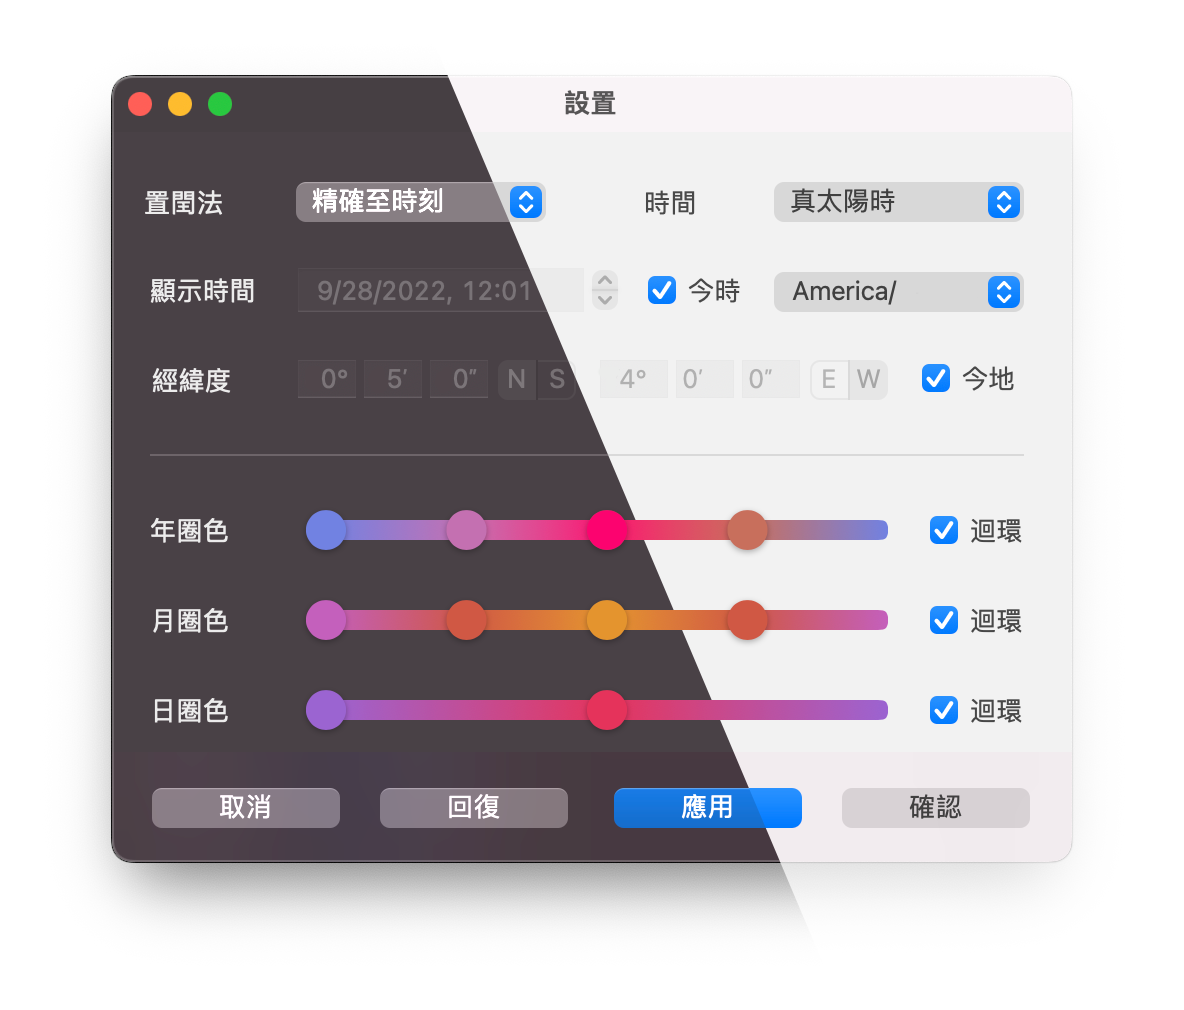
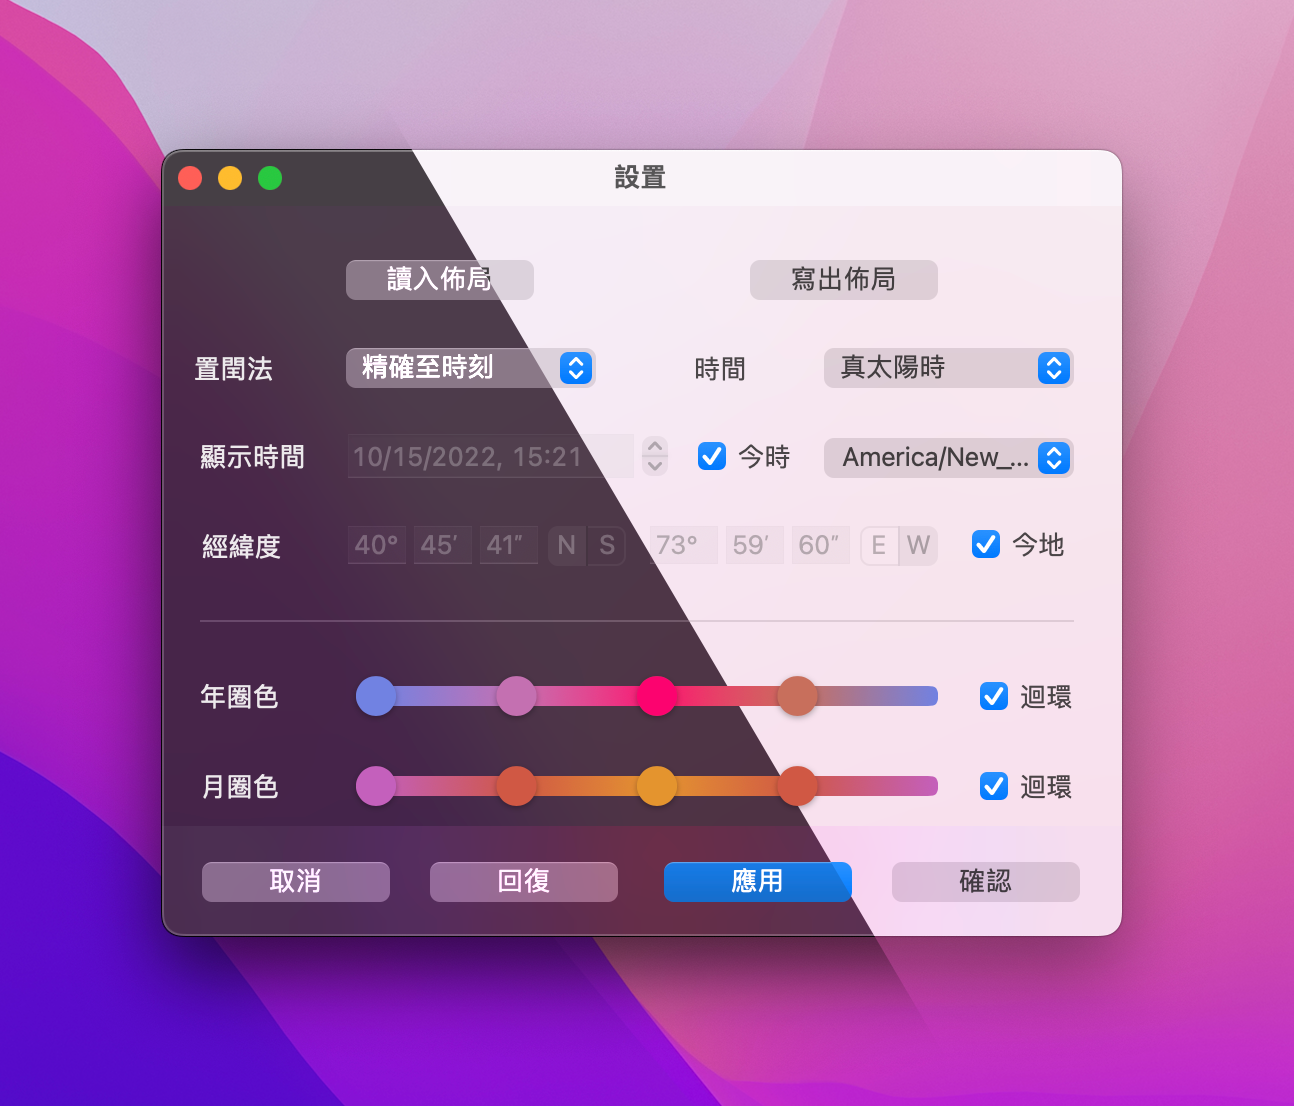
Add Options UI, update readme

diff --git a/ChineseTime/WatchFace.swift b/ChineseTime/WatchFace.swift
@@ -426,7 +426,7 @@ class WatchFaceView: NSView {
                 gradientLayer.colors = gradient.colors.map { $0.cgColor }
                 gradientLayer.locations = gradient.locations.map { NSNumber(value: Double($0)) }
             }
-            gradientLayer.frame = self.frame
+            gradientLayer.frame = self.bounds
             
             let trackMask = shapeFrom(path: path)
             let mask: CALayer
@@ -723,7 +723,7 @@ class WatchFaceView: NSView {
             gradientLayer.type = .axial
             gradientLayer.colors = watchLayout.centerFontColor.colors.map { $0.cgColor }
             gradientLayer.locations = watchLayout.centerFontColor.locations.map { NSNumber(value: Double($0)) }
-            gradientLayer.frame = self.frame
+            gradientLayer.frame = self.bounds
             gradientLayer.mask = centerText
             
             return gradientLayer as CALayer
@@ -868,12 +868,86 @@ class WatchFaceView: NSView {
     }
 }
 
+class OptionView: NSView {
+    let background: NSVisualEffectView
+    let button: NSButton
+    override var frame: NSRect {
+        didSet {
+            self.background.frame = self.bounds
+            self.button.frame = self.bounds
+            (background.layer?.mask as? CAShapeLayer)?.path = RoundedRect(rect: background.bounds, nodePos: background.bounds.height / 2, ankorPos: background.bounds.height / 2 * 0.2).path
+        }
+    }
+
+    override init(frame frameRect: NSRect) {
+        let background = NSVisualEffectView(frame: frameRect)
+        background.blendingMode = .behindWindow
+        background.material = .popover
+        background.state = .active
+        background.wantsLayer = true
+        let optionMask = CAShapeLayer()
+        optionMask.path = RoundedRect(rect: background.bounds, nodePos: background.bounds.height / 2, ankorPos: background.bounds.height / 2 * 0.2).path
+        background.layer?.mask = optionMask
+        
+        let button = NSButton(frame: frameRect)
+        button.alignment = .center
+        button.isBordered = false
+        
+        self.background = background
+        self.button = button
+        super.init(frame: frameRect)
+        self.addSubview(self.background)
+        self.addSubview(self.button)
+    }
+    
+    required init?(coder: NSCoder) {
+        self.background = NSVisualEffectView()
+        self.button = NSButton()
+        super.init(coder: coder)
+    }
+    
+    var title: String {
+        get {
+            button.title
+        } set {
+            button.title = newValue
+        }
+    }
+    var image: NSImage? {
+        get {
+            button.image
+        } set {
+            button.image = newValue
+        }
+    }
+    var action: Selector? {
+        get {
+            button.action
+        } set {
+            button.action = newValue
+        }
+    }
+    var target: AnyObject? {
+        get {
+            button.target
+        } set {
+            button.target = newValue
+        }
+    }
+}
+
 class WatchFace: NSWindow {
     let _view: WatchFaceView
     let _backView: NSVisualEffectView
+    let _settingButton: OptionView
+    let _closingButton: OptionView
     private var _timer: Timer?
     static var currentInstance: WatchFace? = nil
     private static let updateInterval: CGFloat = 14.4
+    var buttonSize: NSSize {
+        let ratio = 80 * 2.3 / (self._view.watchLayout.watchSize.width / 2)
+        return NSMakeSize(80 / ratio, 30 / ratio)
+    }
     
     init(position: NSRect) {
         _view = WatchFaceView(frame: position)
@@ -883,7 +957,17 @@ class WatchFace: NSWindow {
         blurView.state = .active
         blurView.wantsLayer = true
         _backView = blurView
+        _settingButton = OptionView(frame: NSZeroRect)
+        _closingButton = OptionView(frame: NSZeroRect)
         super.init(contentRect: position, styleMask: .borderless, backing: .buffered, defer: true)
+        
+        _settingButton.image = NSImage(systemSymbolName: "square.and.pencil", accessibilityDescription: "Setting")
+        _settingButton.target = self
+        _settingButton.action = #selector(self.openSetting(_:))
+        _closingButton.image = NSImage(systemSymbolName: "power", accessibilityDescription: "Quit")
+        _closingButton.target = self
+        _closingButton.action = #selector(self.closeApp(_:))
+        
         self.alphaValue = 1
         self.level = NSWindow.Level.floating
         self.hasShadow = true
@@ -893,7 +977,24 @@ class WatchFace: NSWindow {
         self.contentView = contentView
         contentView.addSubview(_backView)
         contentView.addSubview(_view)
+        contentView.addSubview(_settingButton)
+        contentView.addSubview(_closingButton)
         self.isMovableByWindowBackground = false
+    }
+    
+    @objc func openSetting(_ sender: Any) {
+        if ConfigurationViewController.currentInstance == nil {
+            let storyboard = NSStoryboard(name: "Main", bundle: nil)
+            let windowController = storyboard.instantiateController(withIdentifier: "WindowController") as! NSWindowController
+            if let window = windowController.window {
+                let viewController = window.contentViewController as! ConfigurationViewController
+                ConfigurationViewController.currentInstance = viewController
+                windowController.showWindow(nil)
+            }
+        }
+    }
+    @objc func closeApp(_ sender: Any) {
+        NSApp.terminate(sender)
     }
     
     override var isVisible: Bool {
@@ -908,16 +1009,16 @@ class WatchFace: NSWindow {
         let windowRect = self.getCurrentScreen()
         self.setFrame(NSMakeRect(
             windowRect.midX - _view.watchLayout.watchSize.width / 2,
-            windowRect.midY - _view.watchLayout.watchSize.height / 2,
-            _view.watchLayout.watchSize.width, _view.watchLayout.watchSize.height), display: true)
+            windowRect.midY - _view.watchLayout.watchSize.height / 2 - buttonSize.height * 0.85,
+            _view.watchLayout.watchSize.width, _view.watchLayout.watchSize.height + buttonSize.height * 1.7), display: true)
     }
 
     func moveTopCenter(to: CGPoint) {
         let windowRect = self.getCurrentScreen()
         var frame = NSMakeRect(
             to.x - _view.watchLayout.watchSize.width / 2,
-            to.y - _view.watchLayout.watchSize.height,
-            _view.watchLayout.watchSize.width, _view.watchLayout.watchSize.height
+            to.y - _view.watchLayout.watchSize.height - buttonSize.height * 1.7,
+            _view.watchLayout.watchSize.width, _view.watchLayout.watchSize.height + buttonSize.height * 1.7
         )
         if NSMaxX(frame) >= NSMaxX(windowRect) {
             frame.origin.x = NSMaxX(windowRect) - frame.width
@@ -942,16 +1043,24 @@ class WatchFace: NSWindow {
     
     func updateSize(with frame: NSRect?) {
         let watchDimension = _view.watchLayout.watchSize
+        let buttonSize = buttonSize
         if frame != nil {
             self.setFrame(NSMakeRect(
                             frame!.midX - watchDimension.width / 2,
-                            frame!.midY - watchDimension.height / 2,
-                            watchDimension.width, watchDimension.height), display: true)
+                            frame!.midY - watchDimension.height / 2 - buttonSize.height * 0.85,
+                            watchDimension.width, watchDimension.height + buttonSize.height * 1.7), display: true)
         } else {
             setCenter()
         }
-        _view.frame = _view.superview!.bounds
-        _backView.frame = _view.superview!.bounds
+        var bounds = _view.superview!.bounds
+        bounds.origin.y += buttonSize.height * 1.7
+        bounds.size.height -= buttonSize.height * 1.7
+        _view.frame = bounds
+        _backView.frame = bounds
+        _settingButton.frame = NSMakeRect(bounds.width / 2 - buttonSize.width * 1.15, buttonSize.height / 2, buttonSize.width, buttonSize.height)
+        _settingButton.button.font = _settingButton.button.font?.withSize(buttonSize.height / 2)
+        _closingButton.frame = NSMakeRect(bounds.width / 2 + buttonSize.width * 0.15, buttonSize.height / 2, buttonSize.width, buttonSize.height)
+        _closingButton.button.font = _closingButton.button.font?.withSize(buttonSize.height / 2)
         _view.cornerSize = _view.watchLayout.cornerRadiusRatio * min(watchDimension.width, watchDimension.height)
         _view.graphicArtifects = WatchFaceView.GraphicArtifects()
     }

diff --git a/ChineseTime/Layout.swift b/ChineseTime/Layout.swift
@@ -431,6 +431,8 @@ class ColorWell: NSColorWell {
 
 class ConfigurationViewController: NSViewController, NSWindowDelegate {
     static var currentInstance: ConfigurationViewController? = nil
+    @IBOutlet weak var readLayout: NSButton!
+    @IBOutlet weak var writeLayout: NSButton!
     @IBOutlet weak var globalMonthPicker: NSPopUpButton!
     @IBOutlet weak var apparentTimePicker: NSPopUpButton!
     @IBOutlet weak var datetimePicker: NSDatePicker!
@@ -677,6 +679,12 @@ class ConfigurationViewController: NSViewController, NSWindowDelegate {
         guard let delegate = NSApplication.shared.delegate as? AppDelegate else { return }
         WatchFaceView.layoutTemplate = delegate.saveLayout()
         self.view.window?.close()
+    }
+    @IBAction func readFile(_ sender: Any) {
+        (NSApp.delegate as! AppDelegate).openFile(sender)
+    }
+    @IBAction func writeFile(_ sender: Any) {
+        (NSApp.delegate as! AppDelegate).saveFile(sender)
     }
     
     func populateTimezonePicker(timezone: TimeZone?) {

diff --git a/README.md b/README.md
@@ -13,6 +13,13 @@ Chinese time is consisted of Hours, Quarters and Subquarters. One Chinese hour i
 
 Besides calendar, the positions of the 5 major solar planets plus the Moon on elliptical plane, plus sunrise, sunset, moonrise, moonset time are also important elements in Chinese calendar. These planet positions, especially Jupiter and Saturn, are traditionally used to take note of the year. Here, they are marked by colored squares on several rings.
 
+## Information displayed
+
+1. Chinese calendar month, day, hour and quarter
+2. Ecliptic positions of Mercury, Venus, Mars, Jupiter, Saturn and Moon
+3. Moments of New Moon, Full Moon, and 24 Aolar Terms
+4. Sunrise, sunset, astronomical noon and midnight; moonrise, moonset, moonnoon time in a day
+
 ## Screenshots
 
 <p align="middle">
